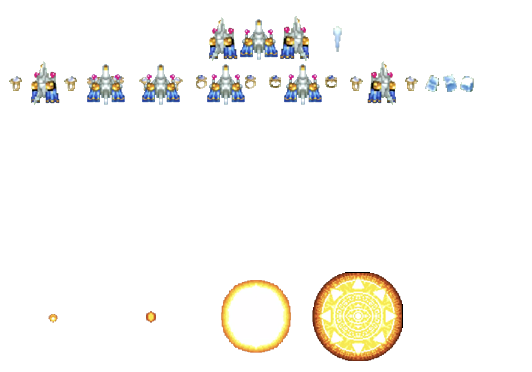
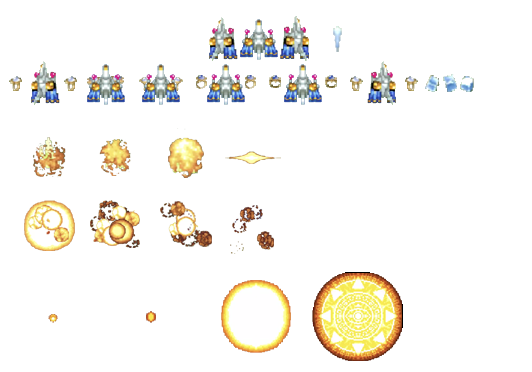
Cambios
-New sprite+ deadplayer
-Implementation deadplayer

diff --git a/Sorcer striker el bueno/Sorcer striker el bueno/Modules/Core/ModuleParticles.cpp b/Sorcer striker el bueno/Sorcer striker el bueno/Modules/Core/ModuleParticles.cpp
@@ -55,26 +55,23 @@ bool ModuleParticles::Start() {
 	explosion.lifetime = 100;
 	explosion.anim.speed = 0.05f;
 
-	//explosion2.anim.PushBack({ 49, 283, 76, 75 });
-	//explosion2.anim.PushBack({ 129, 272, 93, 93 });
-	//explosion2.anim.loop = false;
-	//explosion2.speed = iPoint(0, -3);
-	///*explosion2.frameCount = 10;*/
-	//explosion2.lifetime = 100;
-	//explosion.anim.speed = 0.03f;
-
-
-
-	/*explosionfinal.anim.PushBack({ 95, 94, 129, 271 });
-	explosionfinal.anim.loop = false;
-	explosionfinal.speed = iPoint(0, -1);
-	explosionfinal.lifetime = 100;
-	explosionfinal.anim.speed = 0.03f;*/
-
 	laser.anim.PushBack({ 331, 23, 12, 30 });
+	laser.anim.loop = false;
 	laser.speed = iPoint(0, -15);
 	laser.lifetime = 100;
 	laser.anim.speed = 0.01f;
+
+	playerdead.anim.PushBack({ 20, 126, 60, 60 });
+	playerdead.anim.PushBack({ 85, 126, 60, 60 });
+	playerdead.anim.PushBack({ 155, 126, 60, 60 });
+	playerdead.anim.PushBack({ 220, 126, 60, 60 });
+	playerdead.anim.PushBack({ 18, 194, 60, 60 });
+	playerdead.anim.PushBack({ 86, 196, 60, 60 });
+	playerdead.anim.PushBack({ 156, 196, 60, 60});
+	playerdead.anim.PushBack({ 220, 196, 60, 60});
+	playerdead.anim.speed = 0.1f;
+
+	
 #pragma endregion
 
 

diff --git a/Sorcer striker el bueno/Sorcer striker el bueno/Modules/Gameplay/ModulePlayer.cpp b/Sorcer striker el bueno/Sorcer striker el bueno/Modules/Gameplay/ModulePlayer.cpp
@@ -233,13 +233,7 @@ void ModulePlayer::OnCollision(Collider* c1, Collider* c2) {
 #pragma region NEW
 	if (c1 == collider && destroyed == false)
 	{
-		App->particles->AddParticle(App->particles->explosion, position.x, position.y, Collider::Type::NONE, 9);
-		App->particles->AddParticle(App->particles->explosion, position.x + 8, position.y + 11, Collider::Type::NONE, 14);
-		App->particles->AddParticle(App->particles->explosion, position.x - 7, position.y + 12, Collider::Type::NONE, 40);
-		App->particles->AddParticle(App->particles->explosion, position.x + 5, position.y - 5, Collider::Type::NONE, 28);
-		App->particles->AddParticle(App->particles->explosion, position.x - 4, position.y - 4, Collider::Type::NONE, 21);
-
-
+		App->particles->AddParticle(App->particles->playerdead, position.x, position.y, Collider::Type::NONE, 9);
 
 		destroyed = true;
 	}

diff --git a/Sorcer striker el bueno/Sorcer striker el bueno/Modules/Core/ModuleParticles.h b/Sorcer striker el bueno/Sorcer striker el bueno/Modules/Core/ModuleParticles.h
@@ -57,8 +57,6 @@ public:
 public:
 	//Template particle for an explosion
 	Particle explosion;
-	Particle explosion2;
-	/*Particle explosionfinal;*/
 
 	//Template particle for a laser
 	Particle laser;
@@ -66,6 +64,8 @@ public:
 	//Template for extra shots
 	Particle ice;
 
+	//Template for deads
+	Particle playerdead;
 
 private:
 	// Particles spritesheet loaded into an SDL Texture
